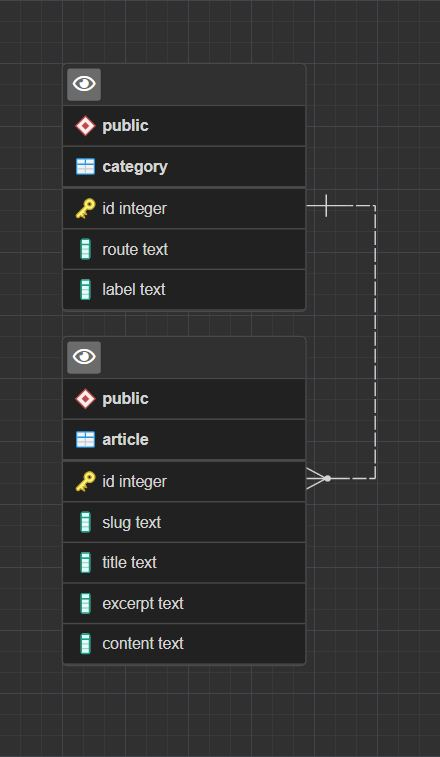
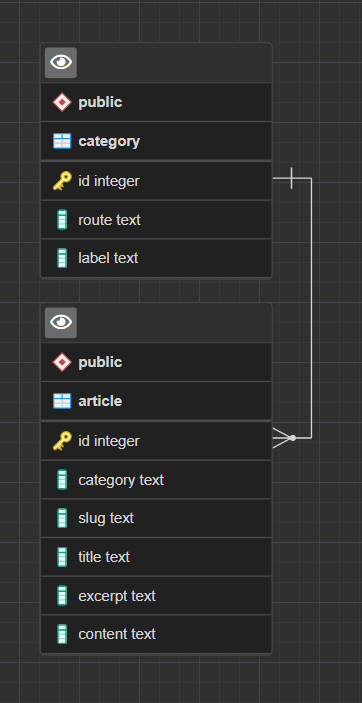
[feat] Tables & Migrations + doc

diff --git a/data/import_data.js b/data/import_data.js
@@ -1,0 +1,39 @@
+// http://www.node-postgres.com/
+//~ IMPORTATION DOTENV
+import 'dotenv/config';
+
+//~ IMPORTATION DATA ---> utilisation de assert {type: "json"} (encore expérimental)
+import articlesData from './posts.json' assert {type: 'json'};
+import categoriesData from './categories.json' assert {type: 'json'};
+
+//~ IMPORTATION DE PG CLIENT
+import pg from 'pg';
+const client = new pg.Client()
+
+//~ FUNCTION IMPORT AD HOC
+async function importAdHoc() {
+    // Connexion à la BDD
+    await client.connect();
+
+    //* Boucle pour le fichier posts.json
+    for (const columnName in articlesData) {
+        // columnName représente les colonnes de articlesData
+        for (const value of articlesData[columnName]) {
+            // value représente les valeurs à inséré dans la BDD
+            await client.query(`INSERT INTO "article" (columnName) VALUES ($1)`, [value]);
+        }
+    } 
+
+    //* Boucle pour le fichier categories.json
+    for (const columnName in categoriesData) {
+        // columnName représente les colonnes de categoriesData
+        for (const value of categoriesData[columnName]) {
+            // value représente les valeurs à inséré dans la BDD
+            await client.query(`INSERT INTO "category" (columnName) VALUES ($1)`, [value]);
+        }
+    }
+
+    // Déconnexion à la BDD
+    await client.end(); 
+}
+// importAdHoc();

diff --git a/README.md b/README.md
@@ -15,10 +15,10 @@ HELENE / FREDO
 ---
 # Reflexion base API
 ---
-
+<!-- 
 <details>
 <summary>Détails</summary>
-<br>
+<br> -->
 
 
 ## User Stories
@@ -47,7 +47,7 @@ Structure des entités et associations faites avec [Mocodo](http://mocodo.wingi.
 BELONGS TO, 11 ARTICLE, 0N CATEGORY
 CATEGORY: code_category, route, label
 
-ARTICLE: code_article, slug, title, excerpt, content
+ARTICLE: code_article, category, slug, title, excerpt, content
 :
 ```
 
@@ -59,14 +59,144 @@ Une catégorie peut contenir plusieurs articles mais un article ne possède qu'u
 Ci-dessous le *Modèle Logique de Données*
 
 ```js
-CATEGORY ( category_id, route, label )
-ARTICLE ( article_id, slug, title, excerpt, content, #category_id )
+// Sous forme académique :
+Category ( CodeCategory, Route, Label )
+Article ( CodeArticle, Category, Slug, Title, Excerpt, Content, #CodeCategory )
+BELONGS_TO ( CodeCategory, CodeArticle )
 ```
 
 ### MPD
 
 Pour le *Modèle Physique de Données*, nous avons utilisé PgAdmin4 pour établir les liens entre nos tables.
 
-![MPD](./docs/img/MPD_oblog.JPG)
+![MPD](./docs/img/MPD_oblog.jpg)
 
-</details>
+<!-- </details> -->
+
+### Mise en place de la base de données
+
+<!-- <details>
+<summary>Détails</summary>
+<br> -->
+
+### Migrations avec l'outil Sqitch
+
+Documentation Sqitch [ici](https://sqitch.org/docs/manual/sqitch/)
+
+    - Création d'un fichier init.sh
+        - Configuration et création d'une BDD
+        - Utilisation et démarrage de Sqitch 
+
+#### 1. Fichier d'initialisation (init.sh)
+
+```sh
+#~ Création d'un script via les commandes POSTGRES
+export PGUSER=postgres
+
+createuser -l -P oblog
+# Reviens à faire : createuser --login --password --pwprompt oblog
+  
+createdb -O oblog oblog
+# Reviens à faire : createdb --owner=oblog oblog
+
+#* 3 - Initialiser Sqitch avec le moteur postgres
+sqitch init oblog --engine pg
+
+#* 4 - Création d'une version 1 pour la BDD
+sqitch add oblog_v1 -n "01 - Créations des tables article / category"
+```
+
+Le fichier permet de créer l'utilisateur avec un mot de passe associé ainsi que sa base de données.
+
+L'initialisation nous permettra de gérer chaque version de la migration.
+
+Dossier migrations :
+
+- deploy
+  - oblog_v1.sql
+- revert
+  - oblog_v1.sql
+- verify
+  - oblog_v1.sql
+
+Après initialisation :
+
+![sqitch](./docs/img/sqitch_Init.jpg)
+
+Le script d'initialisation est lancée seulement et seulement si [Postgres](https://www.postgresql.org/) est bien installé sur l'hôte.
+
+Le script peut être lancé grâce à la commande suivante :
+
+```sh
+# Commande Windows
+sh ./init.sh
+
+# Commande Linux
+chmod +x ./init.sh
+./init.sh
+```
+
+#### 2. Déploiement de la base de données
+
+```sh
+#* Export variables d'environnements
+export PGUSER=oblog
+export PGPASSWORD=oblog
+
+#* Deploy Global :
+sqitch deploy -d oblog oblog_v1
+# sqitch deploy -d oblog oblog_v2
+```
+
+Le script deploy.sh permet de générer nos tables dans la BDD.
+
+Le script se lance de la même manière que l'init.sh :
+
+```sh
+# Commande Windows
+sh ./deploy.sh
+
+# Commande Linux
+chmod +x ./deploy.sh
+./deploy.sh
+```
+
+Et voici le visuel des tables et de leurs relations :
+
+![pgAdmin](./docs/img/tables.JPG)
+
+
+#### 3. Création d'un fichier import Ad Hoc
+
+Importations ES6
+
+```js
+//~ IMPORTATION DOTENV
+import 'dotenv/config';
+
+//~ IMPORTATION DATA ---> utilisation de assert {type: "json"} (encore expérimental)
+import articlesData from './posts.json' assert {type: "json"};
+import categoriesData from './categories.json' assert {type: "json"};
+
+//~ IMPORTATION DE PG CLIENT
+import pg from 'pg';
+const client = new pg.Client()
+```
+<!-- ^-- TODO exemple de boucle
+
+
+<!-- </details> -->
+
+### Mise en place du projet
+
+<!-- <details>
+<summary>Détails</summary>
+<br> -->
+
+<!-- </details> -->
+
+- Initialisation du projet
+
+- Mise en place des routes
+
+- Gestion des erreurs
